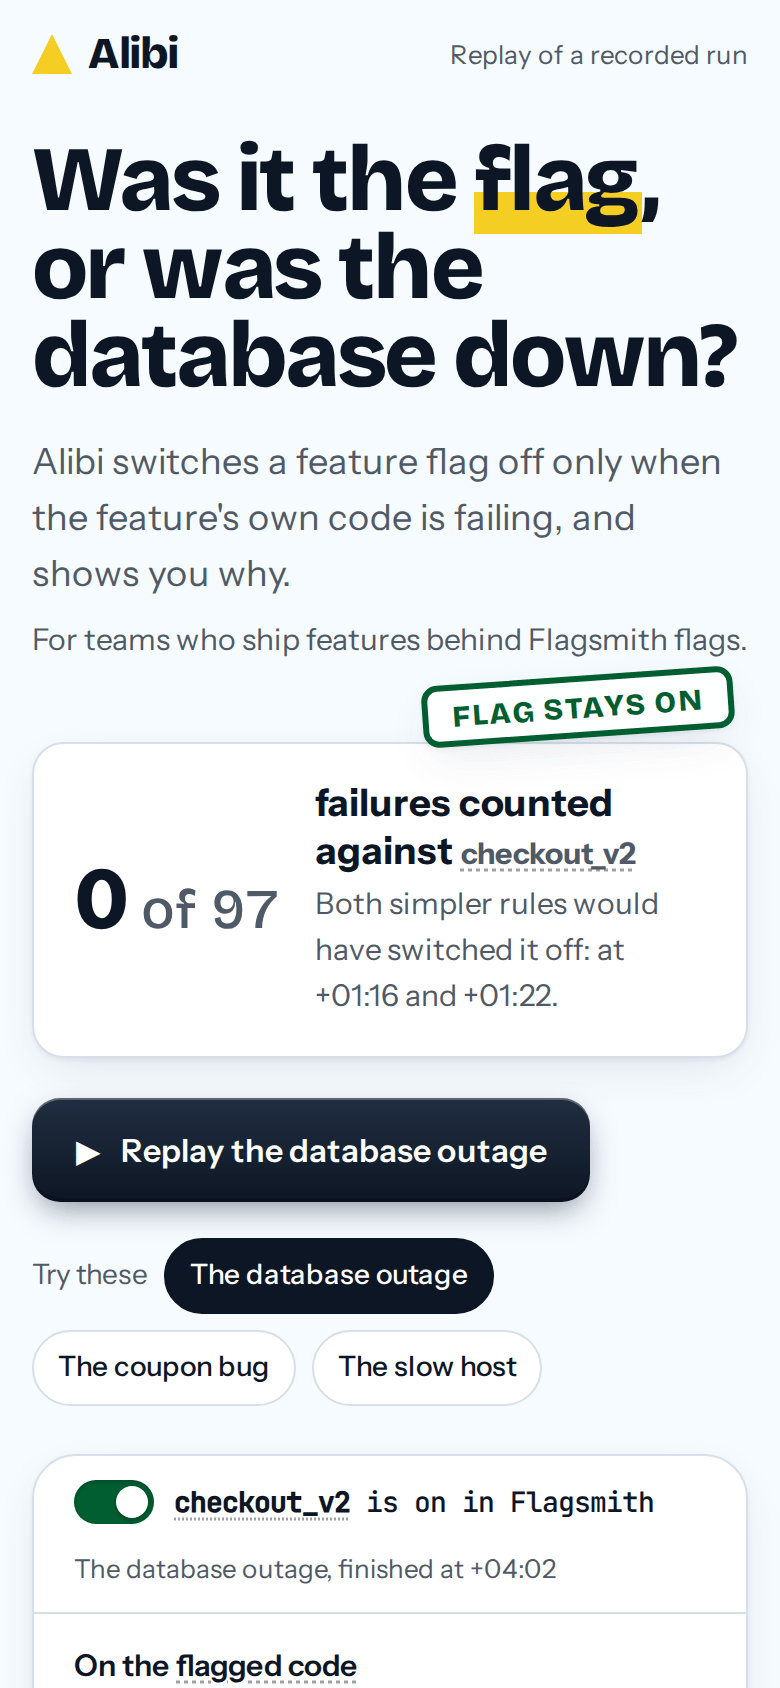
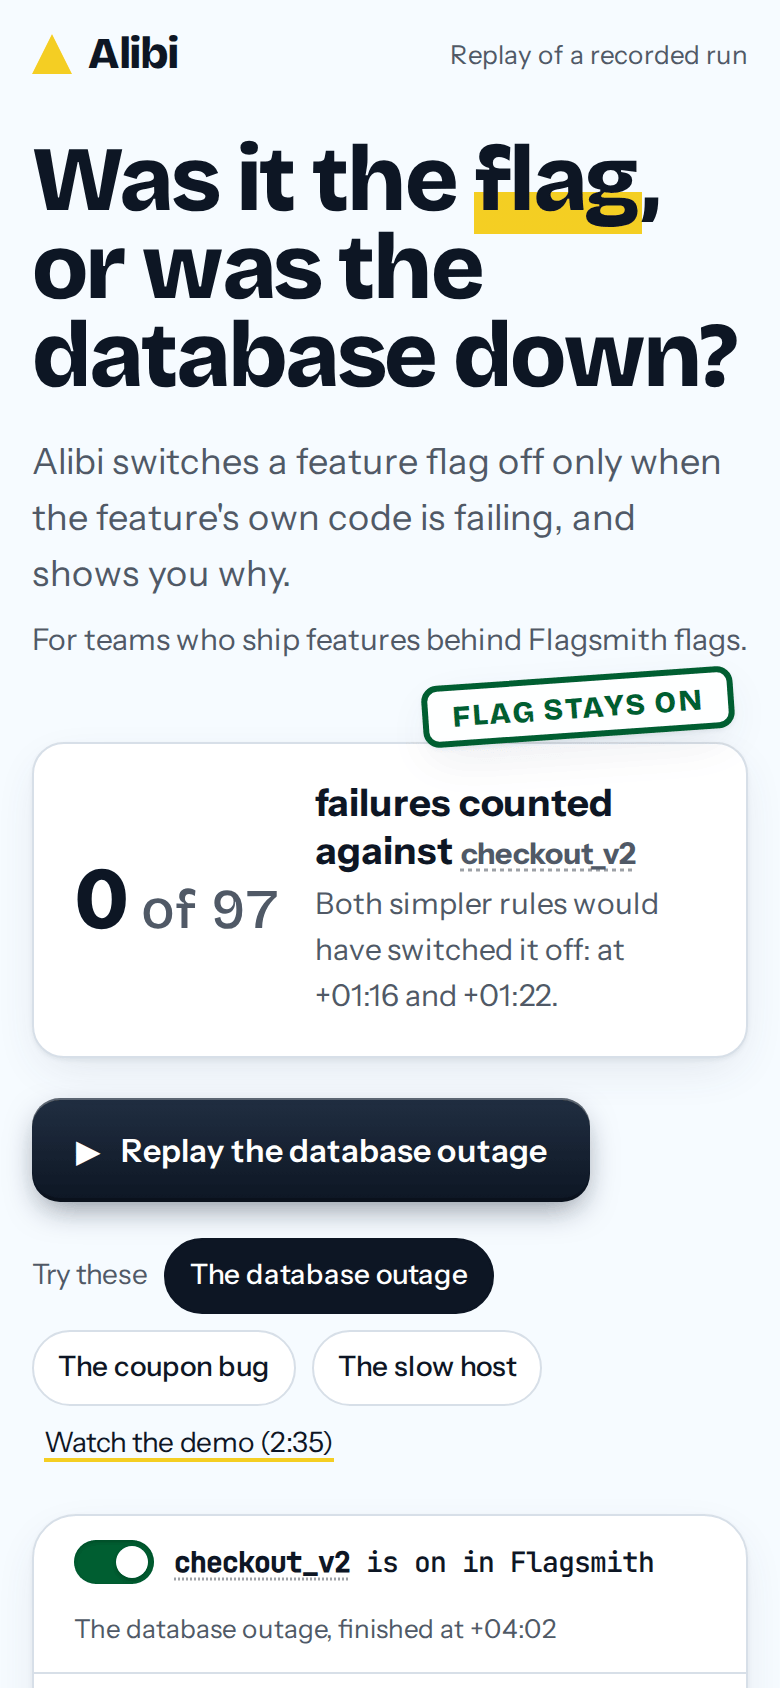
Page: final pass with the video present; plain-flag live board; screenshots re-captured

Changed region(s): [[0.0615, 0.8318, 0.8308, 1.0], [0.0308, 0.8934, 0.0615, 0.9242]]

diff --git a/apps/web/e2e/live.spec.ts b/apps/web/e2e/live.spec.ts
@@ -177,3 +177,38 @@ test('a notice about a dependency only the flagged path calls is shown on the li
     server.close();
   }
 });
+
+test('plain-flag mode: the numbers card shows the guard\'s note, and nothing says "rollout" unless the guard does', async ({ page }) => {
+  const config = { flag: 'checkout_v2', stableVariation: 'stable', threshold: 15, watchMs: 300000, tolerance: { windowMs: 60000, minRequests: 20, errorRatePoints: 2, p95Factor: 1.25 }, plainRule: { windowMs: 30000, minRequests: 20, errorRate: 0.2 } };
+  const rates = { requests: 10, failures: 0, errorRate: 0, p95Ms: 30 };
+  const run = { name: 'live-run', title: 'Live traffic', planted: 'x', startedAtMs: 1_000_000, source: 'stand-in', recording: true };
+  const note = 'This flag is not in an experiment, so no experiment events are sent and no experiment numbers are read.';
+  const notices = [
+    { atMs: 1_004_000, span: 'pg.query:SELECT price', kind: 'flagged-path-only', failures: 3, text: 'First notice text.' },
+    { atMs: 1_004_500, span: 'pg.query:SELECT price', kind: 'dependency-uneven', failures: 9, text: 'Second notice text, same span.' },
+  ];
+  const state = { config, phase: 'watching', counted: 16, notCounted: { dependency: 0, server: 0, mixed: 0 }, totals: { flagOn: { ...rates, failures: 16 }, stable: rates }, stableBaseline: rates, switchOffConfirmed: true, switchedOffAtMs: 1_090_000, watchEndsAtMs: 1_390_000, lastSpanAtMs: 1_100_000, notices };
+  const payload = { state, flagsmith: { mode: 'plain-flag', note, switchOff: { requested: true, confirmed: true, detail: 'checkout_v2 disabled in Flagsmith; 20 of 20 identities checked get stable' } }, timeline: [], records: [], run, receiver: {} };
+  const server = createServer((req, res) => {
+    res.setHeader('Access-Control-Allow-Origin', '*');
+    if (req.url === '/api/state') {
+      res.setHeader('content-type', 'application/json');
+      res.end(JSON.stringify({ ...payload, recent: [] }));
+    } else if (req.url === '/api/events') {
+      res.writeHead(200, { 'content-type': 'text/event-stream', 'Access-Control-Allow-Origin': '*' });
+      res.write(`event: state\ndata: ${JSON.stringify(payload)}\n\n`);
+    } else res.writeHead(404).end();
+  });
+  await new Promise<void>((r) => server.listen(0, '127.0.0.1', r));
+  const port = (server.address() as { port: number }).port;
+  try {
+    await page.goto(`./?live=http://127.0.0.1:${port}`);
+    await expect(page.getByText(note).first()).toBeVisible({ timeout: 15_000 });
+    await expect(page.getByText('Notice: First notice text.')).toBeVisible();
+    await expect(page.getByText('Notice: Second notice text, same span.')).toBeVisible();
+    await expect(page.getByText('checkout_v2 disabled in Flagsmith; 20 of 20 identities checked get stable')).toBeVisible();
+    expect((await page.locator('body').innerText()).toLowerCase()).not.toContain('rollout');
+  } finally {
+    server.close();
+  }
+});

diff --git a/apps/web/src/components/Demo.tsx b/apps/web/src/components/Demo.tsx
@@ -1,3 +1,4 @@
+import { useEffect, useRef, useState } from 'react';
 import type { Video } from '../lib/video';
 import { minutes, videoUrl } from '../lib/video';
 
@@ -19,15 +20,36 @@ export function DemoLink({ video }: { video: Video }) {
   );
 }
 
-/** The video loads nothing until play is pressed (preload none), so the first screen weighs what it did. */
+/**
+ * The player is drawn when its section nears the screen, and the video itself loads nothing until play is pressed
+ * (preload none), so the first screen weighs what it did before there was a video.
+ */
 export function Demo({ video }: { video: Video }) {
+  const box = useRef<HTMLDivElement>(null);
+  const [near, setNear] = useState(typeof IntersectionObserver === 'undefined');
+  useEffect(() => {
+    const el = box.current;
+    if (!el || near) return;
+    const io = new IntersectionObserver((entries) => {
+      if (entries.some((e) => e.isIntersecting)) {
+        setNear(true);
+        io.disconnect();
+      }
+    }, { rootMargin: '60px 0px' });
+    io.observe(el);
+    return () => io.disconnect();
+  }, [near]);
   return (
     <section id="demo" className="card demo" aria-label="The demo">
       <h2>The demo</h2>
-      <video controls preload="none" playsInline poster={video.poster ? videoUrl(video.poster) : undefined}>
-        <source src={videoUrl(video.file)} type="video/mp4" />
-        {video.captions ? <track kind="captions" src={videoUrl(video.captions)} srcLang="en" label="English" default /> : null}
-      </video>
+      <div ref={box} className="demo-box">
+        {near ? (
+          <video controls preload="none" playsInline poster={video.poster ? videoUrl(video.poster) : undefined}>
+            <source src={videoUrl(video.file)} type="video/mp4" />
+            {video.captions ? <track kind="captions" src={videoUrl(video.captions)} srcLang="en" label="English" default /> : null}
+          </video>
+        ) : null}
+      </div>
     </section>
   );
 }

diff --git a/apps/web/src/components/Sections.tsx b/apps/web/src/components/Sections.tsx
@@ -119,7 +119,7 @@ export function SimplerRules({ board, finished }: { board: BoardData; finished: 
         </span>
       </p>
       {board.state.notices?.map((n) => (
-        <p key={n.span} className="notice">
+        <p key={`${n.span}|${n.kind ?? ''}|${n.atMs}`} className="notice">
           <span>Notice: {n.text}</span>
         </p>
       ))}
@@ -284,7 +284,7 @@ export function FlagsmithNumbers({ board, small }: { board: BoardData; small?: b
           </p>
         </>
       ) : (
-        <p className="muted">Flagsmith's numbers show here once the experiment has results.</p>
+        <p className="muted">{board.flagsmithNote ?? "Flagsmith's numbers show here once the experiment has results."}</p>
       )}
     </div>
   );
@@ -309,7 +309,7 @@ export function Record({ board }: { board: BoardData }) {
           <h3>Notices</h3>
           <ul className="tl">
             {r.notices.map((n) => (
-              <li key={n.span}>
+              <li key={`${n.span}|${n.kind ?? ''}|${n.atMs}`}>
                 <b>{formatRelative(n.atMs - board.meta.startedAtMs)}</b>
                 {n.text}
               </li>

diff --git a/apps/web/src/lib/liveSource.ts b/apps/web/src/lib/liveSource.ts
@@ -20,7 +20,7 @@ export interface Live {
 
 interface Payload {
   state: GuardState;
-  flagsmith?: { switchOff?: { requested: boolean; confirmed: boolean; detail: string }; results?: FlagsmithExperimentSummary };
+  flagsmith?: { mode?: string; note?: string; switchOff?: { requested: boolean; confirmed: boolean; detail: string }; results?: FlagsmithExperimentSummary };
   recent?: TraceVerdict[];
   timeline?: { atMs: number; text: string; failure?: boolean }[];
   records?: { id: string; label: string; openedAtMs: number }[];
@@ -80,6 +80,7 @@ export function connectLive(url: string, onBoard: (board: Board) => void, onDown
       ...(record ? { record } : {}),
       ...(liveRate ? { liveRate } : {}),
       ...(liveHistory.length ? { liveHistory } : {}),
+      ...(payload.flagsmith?.note ? { flagsmithNote: payload.flagsmith.note } : {}),
       ...(payload.flagsmith?.results ? { flagsmith: { atMs: payload.flagsmith.results.readAtMs, detail: '', data: payload.flagsmith.results } } : {}),
     });
   };

diff --git a/apps/web/src/App.tsx b/apps/web/src/App.tsx
@@ -134,7 +134,7 @@ export function App() {
                 </div>
               ) : null}
               {board ? <WatchBand board={board} /> : null}
-              {board && !board.record && board.flagsmith && !params.record ? (
+              {board && !board.record && (board.flagsmith || board.flagsmithNote) && !params.record ? (
                 <div className="fsc-hero">
                   <FlagsmithNumbers board={board} small />
                 </div>
@@ -146,7 +146,7 @@ export function App() {
               <div className="board sk" style={{ minHeight: 560 }} aria-busy="true" aria-label="Loading the run" />
             )}
           </section>
-          {board && !board.record && board.flagsmith && !params.record ? (
+          {board && !board.record && (board.flagsmith || board.flagsmithNote) && !params.record ? (
             <div className="fsc-after">
               <FlagsmithNumbers board={board} small />
             </div>

diff --git a/apps/web/src/styles/app.css b/apps/web/src/styles/app.css
@@ -155,3 +155,4 @@ footer{margin-top:40px;padding-top:18px;border-top:1px solid var(--line);font-si
 .demo-link{margin-left:6px;font-size:14px;color:var(--ink);text-decoration:underline;text-underline-offset:3px;text-decoration-color:var(--accent);text-decoration-thickness:2px}
 .demo video{display:block;width:100%;aspect-ratio:16/9;background:#000;border-radius:var(--r-md);margin-top:10px}
 .simpler .margin{font-size:12.5px;color:var(--ink-muted);display:block}
+.demo-box{aspect-ratio:16/9;margin-top:10px;background:#000;border-radius:var(--r-md);overflow:hidden}.demo-box video{margin-top:0;border-radius:0;height:100%}

diff --git a/apps/web/src/lib/viewModel.ts b/apps/web/src/lib/viewModel.ts
@@ -69,6 +69,8 @@ export interface Board {
   timeline: TimelineLine[];
   record?: InvestigationRecord;
   flagsmith?: RecordedResults;
+  /** Live only: the guard's own words when the flag is not in an experiment, so no experiment numbers exist. */
+  flagsmithNote?: string;
   /** Live only: requests seen in the last second. */
   liveRate?: { requests: number; failures: number };
   /** Live only: requests and failures in each of the last seconds, oldest first. */
